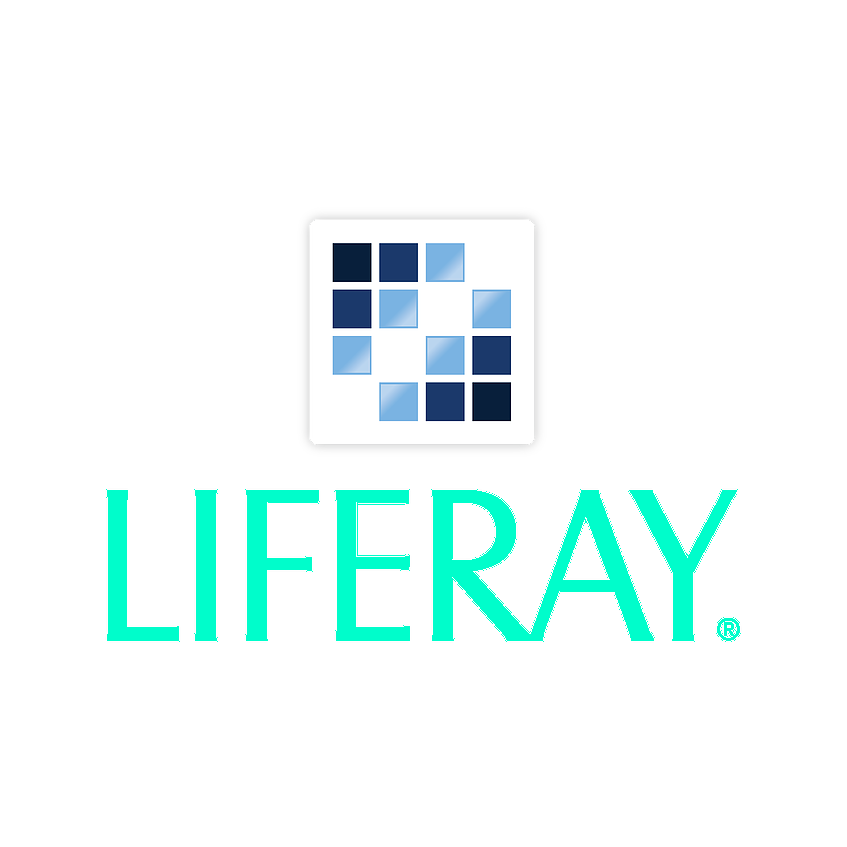
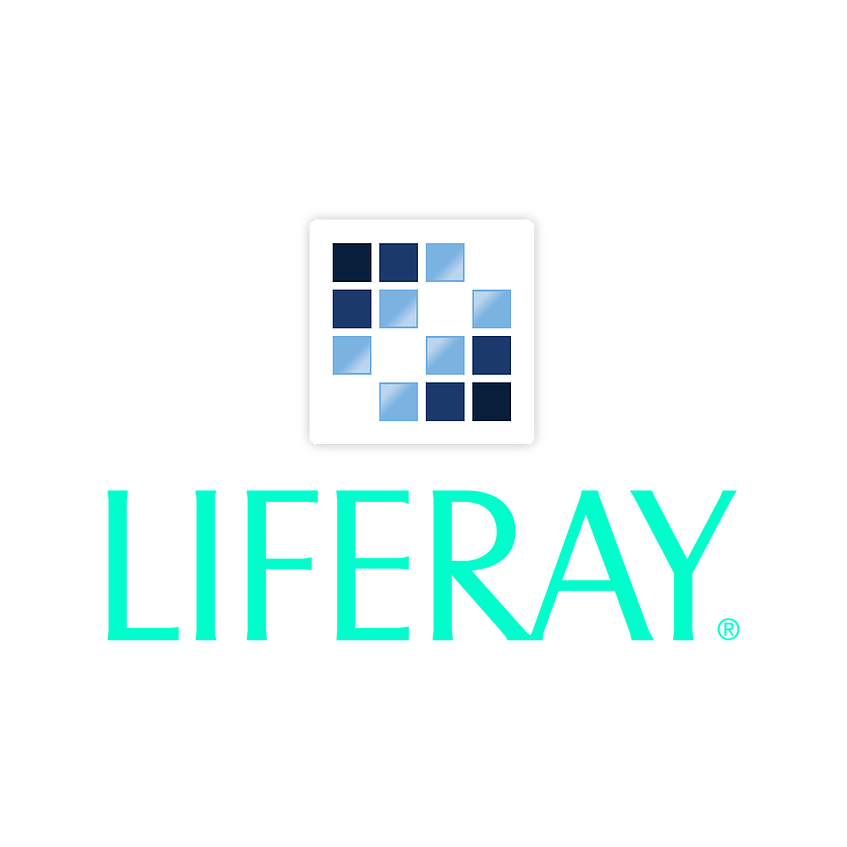
//

diff --git a/index.html b/index.html
@@ -155,7 +155,7 @@
                 </div>
                 <div class="columnskills">
                     <img src="/images/Green/HTML5.png" style="width:100%">
-                    <img src="/images/Liferay.png" style="width:100%">
+                    <img src="/images/Green/Liferay.png" style="width:100%">
                     <img src="/images/Photoshop.png" style="width:100%">
                     
                 </div>  
